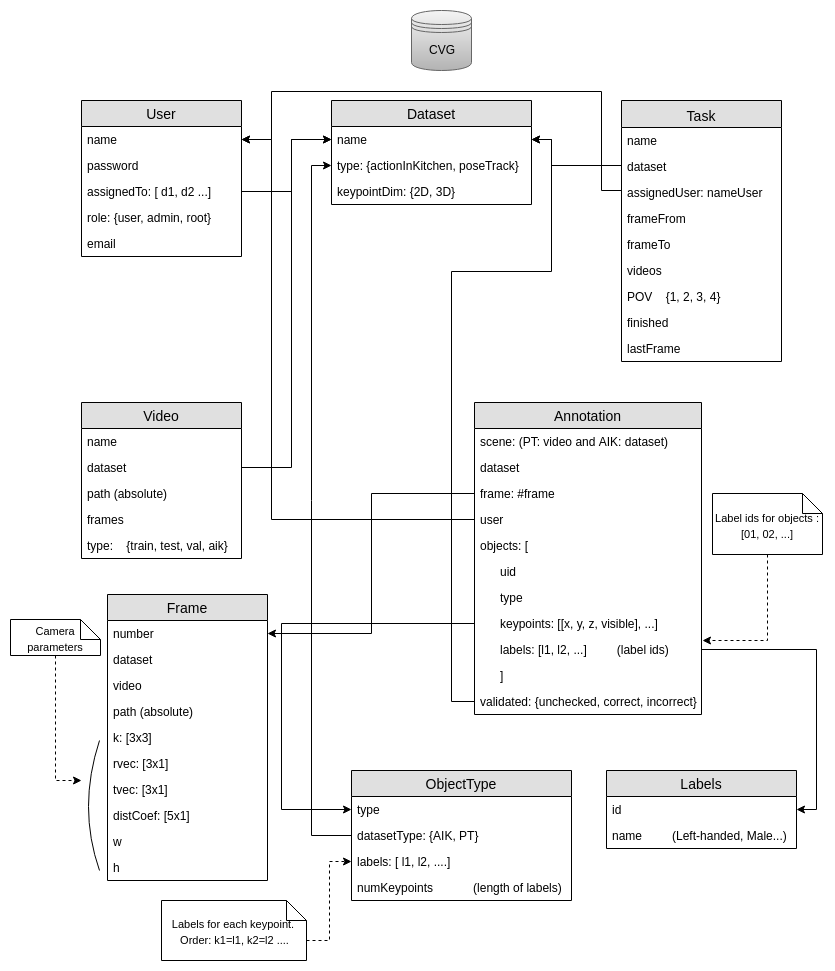
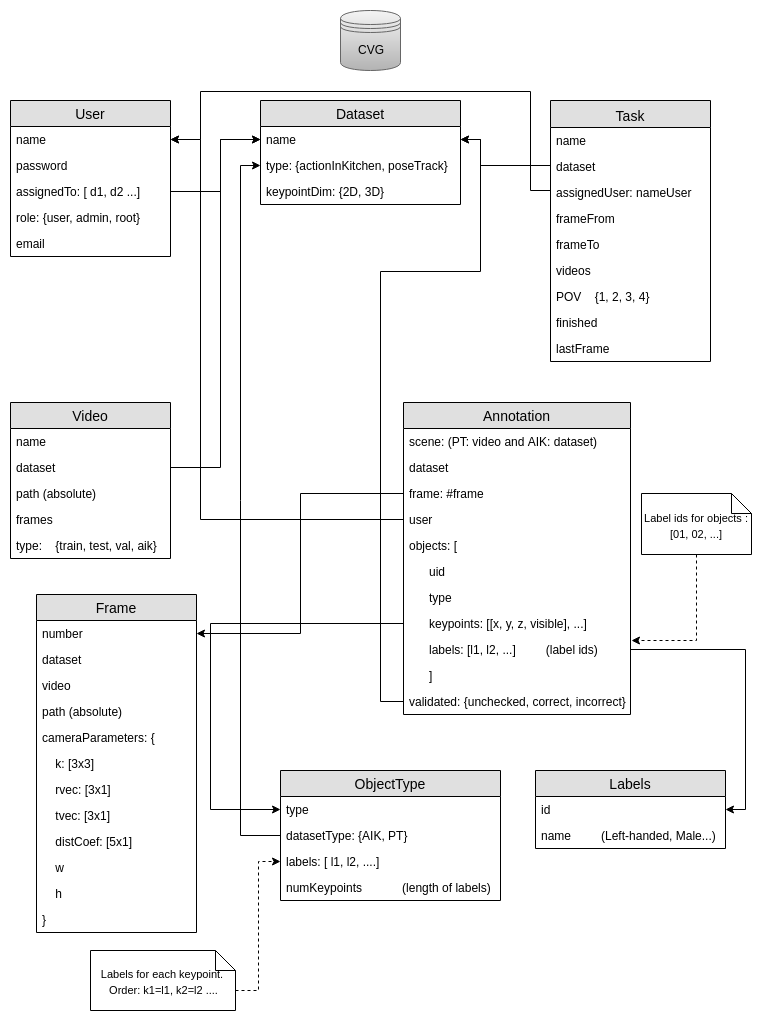
#60 Add all camera parameters together. Use frame dictionary to create frame

diff --git a/src/python/logic/datasetService.py b/src/python/logic/datasetService.py
@@ -83,7 +83,7 @@ class DatasetService:
 
         # Store info in DB
         resultVideos = this.addVideosAIK(dataset, videosDir)
-        resultCameras = this.addCameraParametersAIK(dataset, camerasDir, videosDir)
+        resultCameras = this.addFrameAIK(dataset, camerasDir, videosDir)
         resultAnnotations = this.addAnnotationsAIK(dataset, annotationsDir)
 
         if resultVideos == 'Error':
@@ -121,7 +121,7 @@ class DatasetService:
 
     # Add camera parameters to annotations in database from camera directory
     # Return true if all have been updated, False ow
-    def addCameraParametersAIK(this, dataset, dir, videosDir):
+    def addFrameAIK(this, dataset, dir, videosDir):
         listDir = os.listdir(dir)
         for camera in listDir:                   # for all cameras/videos
             cameraDir = os.path.join(dir, camera)           # Directory for camera parameters
@@ -145,11 +145,10 @@ class DatasetService:
                     frameVideoFile = os.path.splitext(fr)[0]+'.png'
                     framePath = os.path.join(frameDir, frameVideoFile)
 
-                    # TODO: create object here and only pass one param
-
-                    # Store frame in db with camera parameters and path wrt video folder
-                    result = frameManager.createFrame(frame, camera, dataset, framePath, camParams['K'], camParams['rvec'],
-                                                      camParams['tvec'], camParams['distCoef'], camParams['w'], camParams['h'])
+                    # Create dictionary with frame, video, dataset, path and camera parameters and store it in db
+                    frameDictionary = {"number": frame, "video": camera, "dataset": dataset, "path": framePath,
+                                       "cameraParameters": camParams}
+                    result = frameManager.createFrame(frameDictionary)
                     if result == 'Error':
                         return False
         return True

diff --git a/src/python/infrastructure/frameManager.py b/src/python/infrastructure/frameManager.py
@@ -33,11 +33,10 @@ class FrameManager:
             log.exception('Error finding frames in db')
             return 'Error'
 
-    # Return 'ok' if the frame has been created
-    def createFrame(this, frame, video, dataset, path, k, rvec, tvec, distCoef, w, h):
+    # Return 'ok' if the frame has been created -> receive the complete dictionary
+    def createFrame(this, frameDict):
         try:
-            result = this.collection.insert_one({"number": frame, "video": video, "dataset": dataset, "path": path, "k": k,
-                                                 "rvec": rvec, "tvec": tvec, "distCoef": distCoef, "w": w, "h": h})
+            result = this.collection.insert_one(frameDict)
             if result.acknowledged:
                 return 'ok'
             else:
